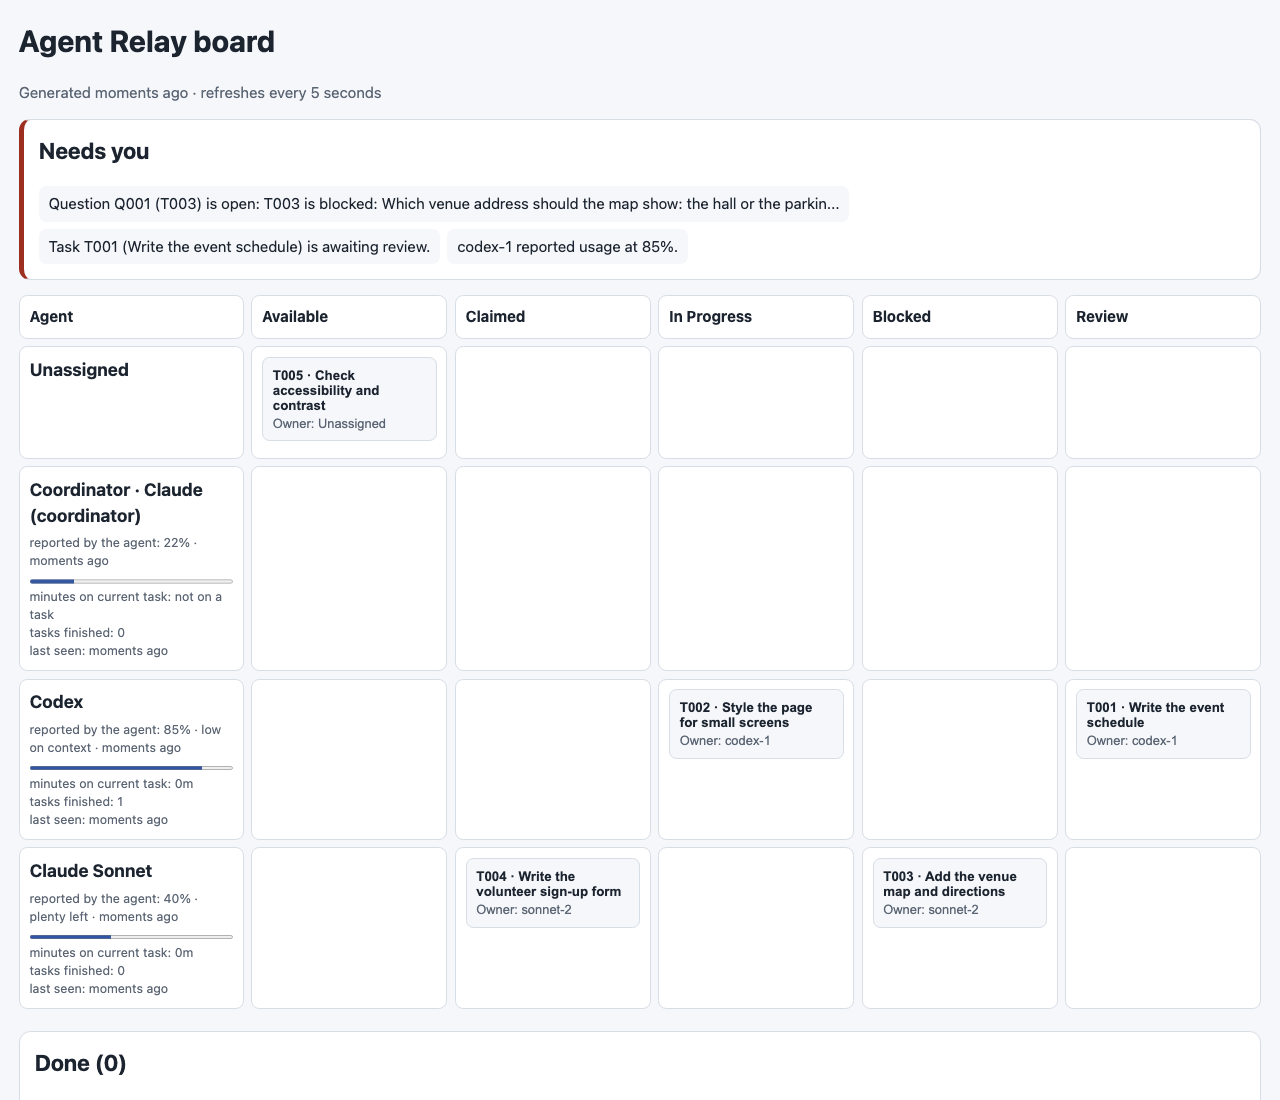
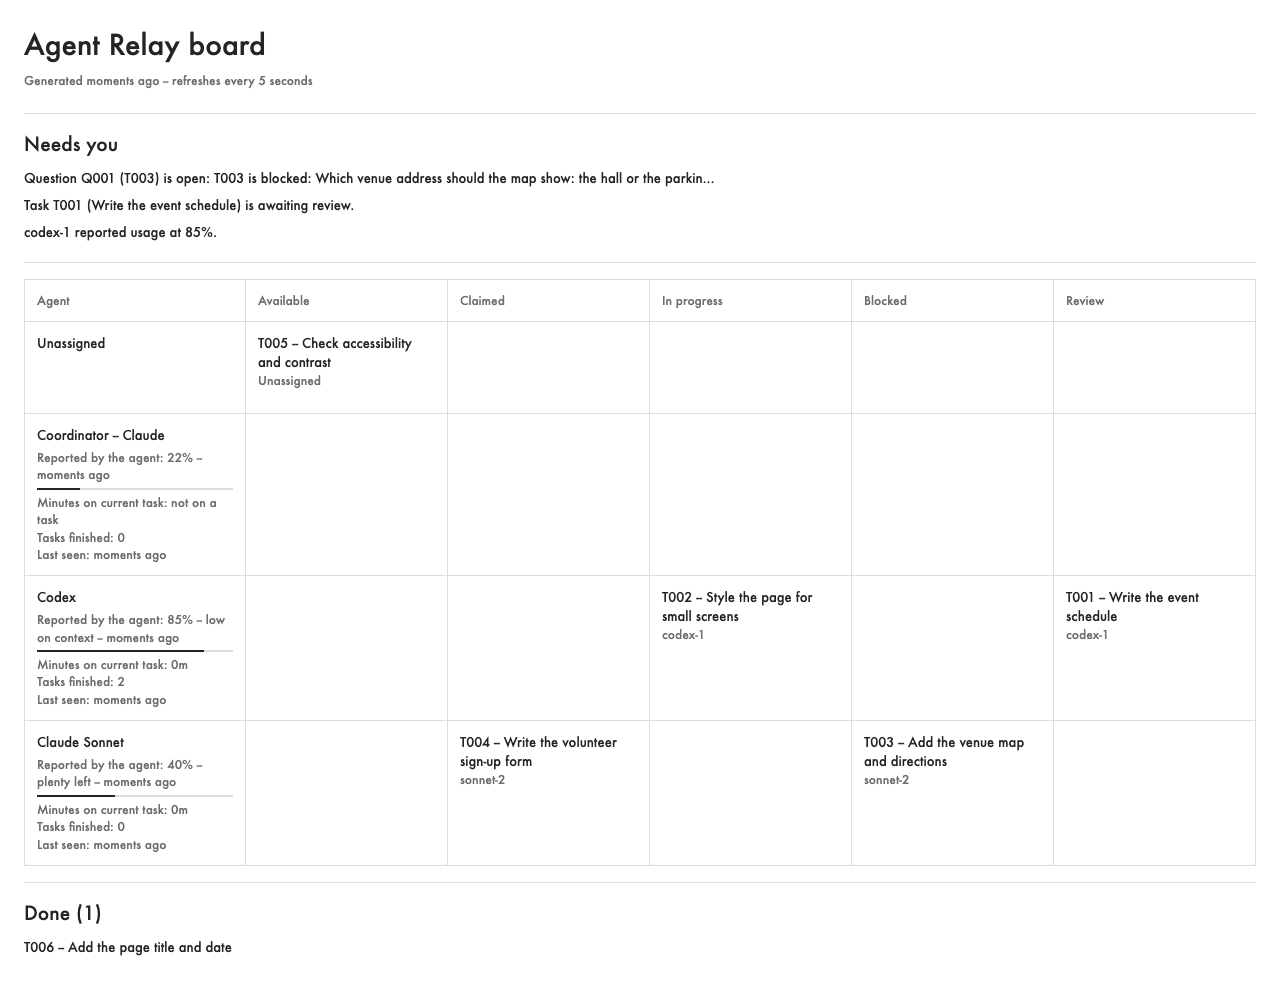
Restyle the board to the portable UI style guide
Flat hairline grid, square corners, token colours, type and spacing, Futura
stack, light and dark from the OS, reduced motion honoured. Task cards are
plain text buttons with one shared hover and focus emphasis; the open task
is shown by accent plus weight. The details panel is the only raised
surface, closes on Escape, returns focus, and no longer covers the board.
Sentence case and "--" separators in interface text. New README screenshot.

diff --git a/.agents/team/team.py b/.agents/team/team.py
@@ -2002,49 +2002,89 @@ def render_board_html(team_dir: Path, config: dict) -> str:
 <meta name="viewport" content="width=device-width, initial-scale=1">
 <title>Agent Relay board — __TITLE__</title>
 <style>
-:root { color-scheme: light dark; font: 15px/1.45 -apple-system, BlinkMacSystemFont, "Segoe UI", sans-serif; --bg:#f5f7fa; --panel:#fff; --ink:#1c2430; --muted:#5b6573; --line:#d7dde5; --accent:#3156a6; --alert:#9d2f21; --good:#226044; }
-@media (prefers-color-scheme: dark) { :root { --bg:#151a21; --panel:#202833; --ink:#edf1f5; --muted:#b1bbc8; --line:#3c4653; --accent:#a9c0ff; --alert:#ff9f91; --good:#91d6ad; } }
-* { box-sizing:border-box; }
-body { margin:0; padding:1.25rem; color:var(--ink); background:var(--bg); }
-header, section, aside { max-width:100%; }
-h1, h2, h3, p { margin-top:0; }
-.muted, .lane-meta { color:var(--muted); }
-.needs-you, .detail-panel, .done-strip { margin:1rem 0; padding:1rem; border:1px solid var(--line); border-radius:.75rem; background:var(--panel); }
-.needs-you { border-left:.35rem solid var(--alert); }
-.needs-you.empty { border-left-color:var(--good); }
-.needs-you ul, .done-list { display:flex; flex-wrap:wrap; gap:.5rem; list-style:none; padding:0; margin:0; }
-.attention-item, .done-card { padding:.45rem .65rem; border-radius:.5rem; background:var(--bg); }
-.board-scroll { overflow-x:auto; padding-bottom:.5rem; }
-.board-grid { display:grid; grid-template-columns:minmax(10rem,15rem) repeat(5,minmax(12rem,1fr)); min-width:76rem; gap:.5rem; align-items:stretch; }
-.column-heading, .lane-name, .cell { border:1px solid var(--line); border-radius:.55rem; background:var(--panel); padding:.65rem; }
-.column-heading { font-weight:700; text-transform:capitalize; }
+/* Look and rules: the portable UI style guide (flat, square, hairlines, type-led). Use the
+   tokens below; do not add literal colours, sizes or spacings. */
+:root {
+  color-scheme: light dark;
+  --paper:#ffffff; --surface:#f5f5f7; --line:#dcdde2; --text:#242428; --muted:#6c6c74;
+  --shadow:#00000018; --accent:#0069d9; --danger:#b42318;
+  --type-small:12px; --type-body:13px; --type-title:19px; --type-display:28px;
+  --ui-font: Futura, "Avenir Next", -apple-system, BlinkMacSystemFont, sans-serif;
+  --space-1:4px; --space-2:8px; --space-3:12px; --space-4:16px; --space-5:24px; --space-6:32px;
+  --control-height:32px; --shadow-raised:0 6px 18px var(--shadow);
+  --duration-press:80ms; --ease-out:cubic-bezier(0.2, 0, 0, 1);
+  --focus-ring:2px solid var(--accent); --focus-offset:1px;
+  --emph-bold:0 0 0.3px currentColor;
+  font-family:var(--ui-font); font-size:var(--type-body); line-height:1.45;
+  color:var(--text); background:var(--paper); font-synthesis:none;
+}
+@media (prefers-color-scheme: dark) {
+  :root { --paper:#202023; --surface:#28282c; --line:#404046; --text:#ededf0; --muted:#a5a5af;
+          --shadow:#00000055; --accent:#64a8ff; --danger:#ff958d; }
+}
+* { box-sizing:border-box; border-radius:0; }
+body { margin:0; padding:var(--space-5); }
+h1, h2, h3, p, ul, ol, dl, dd { margin:0; padding:0; }
+ul, ol { list-style:none; }
+h1 { font-size:var(--type-display); font-weight:500; }
+h2 { font-size:var(--type-title); font-weight:500; margin-bottom:var(--space-2); }
+h3 { font-size:var(--type-body); font-weight:500; }
+.muted, .lane-meta, .status-line { color:var(--muted); font-size:var(--type-small); }
+.status-line { min-height:var(--control-height); display:flex; align-items:center; font-variant-numeric:tabular-nums; }
+.rule { height:1px; background:var(--line); margin:var(--space-4) 0; }
+.needs-you li, .done-list li { padding:var(--space-1) 0; }
+.board-scroll { overflow-x:auto; }
+/* Hairlines: the grid's own background shows through one-pixel gaps between flat cells. */
+.board-grid { display:grid; grid-template-columns:minmax(160px,220px) repeat(5,minmax(170px,1fr)); min-width:1040px; gap:1px; background:var(--line); border:1px solid var(--line); }
+.column-heading, .lane-name, .cell { background:var(--paper); padding:var(--space-3); }
+.column-heading { font-size:var(--type-small); color:var(--muted); min-height:var(--control-height); }
 .lane-name { position:sticky; left:0; z-index:1; }
-.lane-name h3 { margin:0; }
-.lane-meta { margin-top:.4rem; font-size:.83rem; }
-.usage-bar { width:100%; height:.55rem; accent-color:var(--accent); }
-.cell { min-height:5rem; }
-.task-card { display:block; width:100%; margin:0 0 .45rem; padding:.65rem; color:var(--ink); text-align:left; border:1px solid var(--line); border-radius:.5rem; background:var(--bg); cursor:pointer; }
-.task-card:hover, .task-card:focus-visible { outline:2px solid var(--accent); outline-offset:1px; }
-.task-card strong, .task-card span { display:block; }
-.task-card span { margin-top:.2rem; color:var(--muted); font-size:.86rem; }
-.detail-panel { position:fixed; top:0; right:0; bottom:0; width:min(32rem,45vw); margin:0; overflow-y:auto; z-index:5; border-radius:0; box-shadow:-4px 0 14px rgba(0,0,0,.25); }
-.detail-panel .close-button { float:right; margin:0 0 .5rem .5rem; padding:.3rem .7rem; cursor:pointer; }
+.lane-meta { margin-top:var(--space-1); font-variant-numeric:tabular-nums; }
+.usage-bar { display:block; width:100%; height:2px; margin:var(--space-1) 0; border:0; appearance:none; -webkit-appearance:none; background:var(--line); color:var(--text); }
+.usage-bar::-webkit-progress-bar { background:var(--line); }
+.usage-bar::-webkit-progress-value { background:var(--text); }
+.usage-bar::-moz-progress-bar { background:var(--text); }
+.cell { min-height:64px; }
+/* Buttons are plain words: no box, no fill. */
+button { font:inherit; color:inherit; background:transparent; border:0; padding:0; text-align:left; cursor:pointer; transition:transform var(--duration-press) var(--ease-out); }
+/* The one hover and focus rule: text gets heavier without changing width. */
+button:is(:hover, :focus-visible) { text-shadow:var(--emph-bold); }
+button:focus-visible { outline:var(--focus-ring); outline-offset:var(--focus-offset); }
+button:active { transform:scale(0.99); }
+.task-card { display:block; width:100%; margin-bottom:var(--space-3); }
+.task-card span { display:block; }
+.task-card .task-title { font-weight:400; }
+.task-card .task-owner { color:var(--muted); font-size:var(--type-small); }
+/* The task whose details are open: accent plus the same heavier text. */
+.task-card[aria-current="true"] .task-title { color:var(--accent); text-shadow:var(--emph-bold); }
+.done-list { display:flex; flex-wrap:wrap; column-gap:var(--space-5); }
+.done-list .task-card { width:auto; margin-bottom:0; }
+/* The details panel is the only raised surface, so it alone has a shadow. */
+.detail-panel { position:fixed; top:0; right:0; bottom:0; width:min(360px,45vw); overflow-y:auto; z-index:5; padding:var(--space-5); background:var(--paper); border-left:1px solid var(--line); box-shadow:var(--shadow-raised); }
 .detail-panel[hidden] { display:none; }
-.detail-panel dt { margin-top:.6rem; font-weight:700; }
-.detail-panel dd { margin-left:0; white-space:pre-wrap; overflow-wrap:anywhere; }
-.detail-panel ol { padding-left:1.5rem; }
-.detail-panel li { margin:.35rem 0; }
-.stale { color:var(--alert); font-weight:700; }
+/* The panel never covers the board: the page gives up that width while it is open. */
+body.panel-open { padding-right:calc(min(360px,45vw) + var(--space-5)); }
+.detail-panel .close-button { float:right; margin-left:var(--space-3); color:var(--muted); min-height:24px; }
+.detail-panel dt { margin-top:var(--space-3); color:var(--muted); font-size:var(--type-small); }
+.detail-panel dd { white-space:pre-wrap; overflow-wrap:anywhere; }
+.detail-panel h3 { margin-top:var(--space-4); color:var(--muted); font-size:var(--type-small); font-weight:400; }
+.detail-panel li { padding:var(--space-1) 0; font-variant-numeric:tabular-nums; }
+.stale { color:var(--danger); font-weight:600; }
 @media (max-width:800px) { .detail-panel { width:100vw; } }
-@media (max-width:700px) { body { padding:.7rem; } }
+@media (max-width:800px) { body.panel-open { padding-right:var(--space-5); } }
+@media (max-width:700px) { body { padding:var(--space-3); } }
+@media (prefers-reduced-motion: reduce) { * { transition:none !important; } }
 </style>
 </head>
 <body>
-<header><h1>Agent Relay board</h1><p id="generated" class="muted"></p></header>
+<header><h1>Agent Relay board</h1><p id="generated" class="status-line" aria-live="polite"></p></header>
+<div class="rule" role="presentation"></div>
 <section id="needs-you" class="needs-you" aria-live="polite"><h2>Needs you</h2><ul id="attention-list"></ul></section>
+<div class="rule" role="presentation"></div>
 <section aria-label="Team task lanes"><div class="board-scroll"><div id="board-grid" class="board-grid"></div></div></section>
+<div class="rule" role="presentation"></div>
 <section id="done-strip" class="done-strip"></section>
-<aside id="detail-panel" class="detail-panel" hidden aria-live="polite"></aside>
+<aside id="detail-panel" class="detail-panel" role="dialog" aria-labelledby="detail-title" hidden></aside>
 <script type="application/json" id="board-data">__DATA__</script>
 <script>
 (function () {
@@ -2075,7 +2115,8 @@ h1, h2, h3, p { margin-top:0; }
     return Math.floor(minutes / 60) + "h ago";
   }
   function statusLabel(value) {
-    return value === "in_progress" ? "in progress" : value;
+    var label = value === "in_progress" ? "in progress" : value;
+    return label.charAt(0).toUpperCase() + label.slice(1);
   }
   function taskOwner(task) {
     if (!task.owner || task.owner === "user") return task.owner || null;
@@ -2085,8 +2126,19 @@ h1, h2, h3, p { margin-top:0; }
     }))) return null;
     return owner.id;
   }
+  function markOpenCard(id) {
+    var cards = document.querySelectorAll("button.task-card");
+    for (var i = 0; i < cards.length; i += 1) {
+      if (cards[i].getAttribute("data-task") === id) cards[i].setAttribute("aria-current", "true");
+      else cards[i].removeAttribute("aria-current");
+    }
+  }
   function closePanel() {
     var panel = document.getElementById("detail-panel");
+    var opened = document.querySelector('button.task-card[aria-current="true"]');
+    markOpenCard(null);
+    document.body.classList.remove("panel-open");
+    if (opened && !panel.hidden) opened.focus();
     while (panel.firstChild) panel.removeChild(panel.firstChild);
     panel.hidden = true;
     try { sessionStorage.removeItem("agent-relay-board-open"); } catch (error) { /* no storage */ }
@@ -2100,11 +2152,15 @@ h1, h2, h3, p { margin-top:0; }
     var panel = document.getElementById("detail-panel");
     while (panel.firstChild) panel.removeChild(panel.firstChild);
     panel.hidden = false;
-    var close = make("button", "close-button", "Close");
+    var close = make("button", "close-button", "Close details");
     close.type = "button";
     close.addEventListener("click", closePanel);
     panel.appendChild(close);
-    panel.appendChild(make("h2", "", task.id + " — " + task.title));
+    var title = make("h2", "", task.id + " -- " + task.title);
+    title.id = "detail-title";
+    panel.appendChild(title);
+    markOpenCard(task.id);
+    document.body.classList.add("panel-open");
     var fields = [
       ["Status", task.status], ["Description", task.description || "(none)"],
       ["Registered paths", (task.files || []).join("\\n") || "none"],
@@ -2124,7 +2180,7 @@ h1, h2, h3, p { margin-top:0; }
     var timeline = make("ol");
     (task.log || []).forEach(function (entry) {
       var note = entry.note ? ": " + entry.note : "";
-      timeline.appendChild(make("li", "", entry.at + " — " + entry.agent + " — " + entry.event + note));
+      timeline.appendChild(make("li", "", entry.at + " -- " + entry.agent + " -- " + entry.event + note));
     });
     panel.appendChild(timeline);
     // Remembered twice: some browsers drop the URL hash when the page reloads itself.
@@ -2136,8 +2192,11 @@ h1, h2, h3, p { margin-top:0; }
   function taskCard(task, className) {
     var button = make("button", "task-card " + (className || ""));
     button.type = "button";
-    button.appendChild(make("strong", "", task.id + " · " + task.title));
-    button.appendChild(make("span", "", "Owner: " + (task.owner || "Unassigned")));
+    button.setAttribute("data-task", task.id);
+    button.appendChild(make("span", "task-title", task.id + " -- " + task.title));
+    if (task.status !== "done") {
+      button.appendChild(make("span", "task-owner", task.owner || "Unassigned"));
+    }
     button.addEventListener("click", function () { openTask(task); });
     return button;
   }
@@ -2158,7 +2217,7 @@ h1, h2, h3, p { margin-top:0; }
     document.getElementById("needs-you").classList.add("empty");
     attentionList.appendChild(make("li", "muted", "Nothing needs attention right now."));
   }
-  document.getElementById("generated").textContent = "Generated " + ageText(data.generated_at) + " · refreshes every 5 seconds";
+  document.getElementById("generated").textContent = "Generated " + ageText(data.generated_at) + " -- refreshes every 5 seconds";
 
   var visibleAgents = agents.filter(function (agent) {
     if (agent.status === "left") return false;
@@ -2173,7 +2232,7 @@ h1, h2, h3, p { margin-top:0; }
   workers.sort(function (a, b) { return a.id.localeCompare(b.id); });
   var lanes = [{id: null, label: "Unassigned", agent: null}];
   coordinators.concat(workers).forEach(function (agent) {
-    lanes.push({id: agent.id, label: agent.role === "coordinator" ? "Coordinator · " +
+    lanes.push({id: agent.id, label: agent.role === "coordinator" ? "Coordinator -- " +
       (agent.label || agent.id) : (agent.label || agent.id), agent: agent});
   });
   if (tasks.some(function (task) { return task.owner === "user"; })) {
@@ -2192,11 +2251,11 @@ h1, h2, h3, p { margin-top:0; }
       var usage = agent.usage || {};
       var usagePercent = usage.percent;
       var meta = make("div", "lane-meta");
-      if (isStale(agent)) meta.appendChild(make("div", "stale", "STALE"));
-      var usageLine = "reported by the agent: " +
+      if (isStale(agent)) meta.appendChild(make("div", "stale", "Stale"));
+      var usageLine = "Reported by the agent: " +
         (usagePercent === null || usagePercent === undefined ? "not reported" : usagePercent + "%");
-      if (usage.note) usageLine += " · " + usage.note;
-      if (usage.at) usageLine += " · " + ageText(usage.at);
+      if (usage.note) usageLine += " -- " + usage.note;
+      if (usage.at) usageLine += " -- " + ageText(usage.at);
       meta.appendChild(make("div", "", usageLine));
       if (usagePercent !== null && usagePercent !== undefined) {
         var bar = make("progress", "usage-bar");
@@ -2218,9 +2277,9 @@ h1, h2, h3, p { margin-top:0; }
           return entry.agent === agent.id && ["done", "review requested"].indexOf(entry.event) !== -1;
         }).length;
       }, 0);
-      meta.appendChild(make("div", "", "minutes on current task: " + minutes));
-      meta.appendChild(make("div", "", "tasks finished: " + finished));
-      meta.appendChild(make("div", "", "last seen: " + ageText(agent.last_seen)));
+      meta.appendChild(make("div", "", "Minutes on current task: " + minutes));
+      meta.appendChild(make("div", "", "Tasks finished: " + finished));
+      meta.appendChild(make("div", "", "Last seen: " + ageText(agent.last_seen)));
       heading.appendChild(meta);
     }
     grid.appendChild(heading);
@@ -2253,6 +2312,9 @@ h1, h2, h3, p { margin-top:0; }
     if (found) openTask(found);
   }
   window.addEventListener("hashchange", openHashTask);
+  document.addEventListener("keydown", function (event) {
+    if (event.key === "Escape" && !document.getElementById("detail-panel").hidden) closePanel();
+  });
   openHashTask();
   // Reload from script, not a meta refresh: a meta refresh drops the URL hash, which closed the
   // open task panel every five seconds.

diff --git a/.agents/team/tests/test_board.py b/.agents/team/tests/test_board.py
@@ -134,7 +134,21 @@ class BoardTests(LifecycleTestCase):
         html = self.board()
         self.assertRegex(html, r"\.detail-panel \{[^}]*position:fixed[^}]*right:0")
         self.assertIn("@media (max-width:800px) { .detail-panel { width:100vw; }", html)
-        self.assertIn('make("button", "close-button", "Close")', html)
+        self.assertIn('make("button", "close-button", "Close details")', html)
+        self.assertIn("body.panel-open { padding-right:", html)
+
+    def test_board_follows_the_flat_style_rules(self):
+        html = self.board()
+        css = html.split("<style>")[1].split("</style>")[0]
+        # Square corners, no gradients, one shadow (the raised details panel), tokens for type.
+        self.assertEqual(re.findall(r"border-radius:\s*([^;]+);", css), ["0"])
+        self.assertNotIn("gradient", css)
+        self.assertEqual(css.count("box-shadow:"), 1)
+        self.assertIn("--ui-font: Futura", css)
+        self.assertIn("@media (prefers-color-scheme: dark)", css)
+        self.assertIn("@media (prefers-reduced-motion: reduce)", css)
+        self.assertNotIn("transition:all", css.replace(" ", ""))
+        self.assertIn(" -- refreshes every 5 seconds", html)
         self.assertIn("function closePanel()", html)
         self.assertIn("replaceState", html)
 
